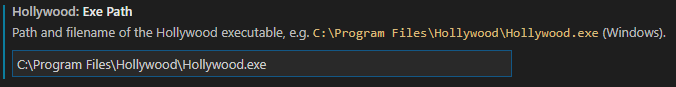
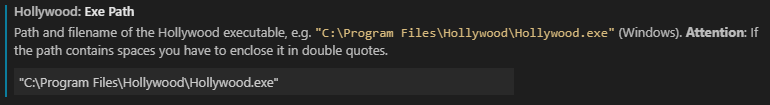
Added remark for exe paths with spaces
Added a remark, that you have to enclose the path to the Hollywood exe file in double quotes if it contains spaces (like in the default installation folder).

Changed region(s): [[0.0, 0.046, 0.9941, 0.9195]]

diff --git a/README.md b/README.md
@@ -76,6 +76,8 @@ Download/check out the content of the GitHub repo and copy it to your extension 
 * **macOS:** `~/.vscode/extensions`
 * **Linux:** `~/.vscode/extensions`
 
+Now create or open a `.hws` file. The extension is activated now.
+
 ## Configuration
 
  Open User or Wokspace Settings by pressing `Ctrl+Shift+P` and enter `settings` or open the extension pane, click the *manage* icon on the Hollywood extension and select *Extension Settings*. Please consult the docs for [creating User and Workspace settings](https://code.visualstudio.com/docs/getstarted/settings)
@@ -86,11 +88,12 @@ Setting: `hollywood.exePath`
 
 Normally this should be a **User** Setting (and not a Workspace Setting), so the executeable is defined globally for all your Hollywood projects.
 
+**Attention**: If the path contains spaces you have to enclose it in double quotes!
+
 ![Configuration of hollywood.exePath in Settings](https://raw.githubusercontent.com/JohnArcher/vscode-hollywood-mal/dev/media/configuration_exepath.png)
 
-Example in  *settings.json*: `"hollywood.exePath": "C:\Program Files\Hollywood\Hollywood.exe"`
-
-Now open a `.hws` file. The extension is activated now.
+Example with escaped spaces in *settings.json*: `"hollywood.exePath": "\"C:\\Program Files\\Hollywood\\Hollywood.exe\""`
+Example without spaces in *settings.json*: `"hollywood.exePath": "D:\\apps\\Hollywood\\Hollywood.exe"`
 
 ### Define main file
 
